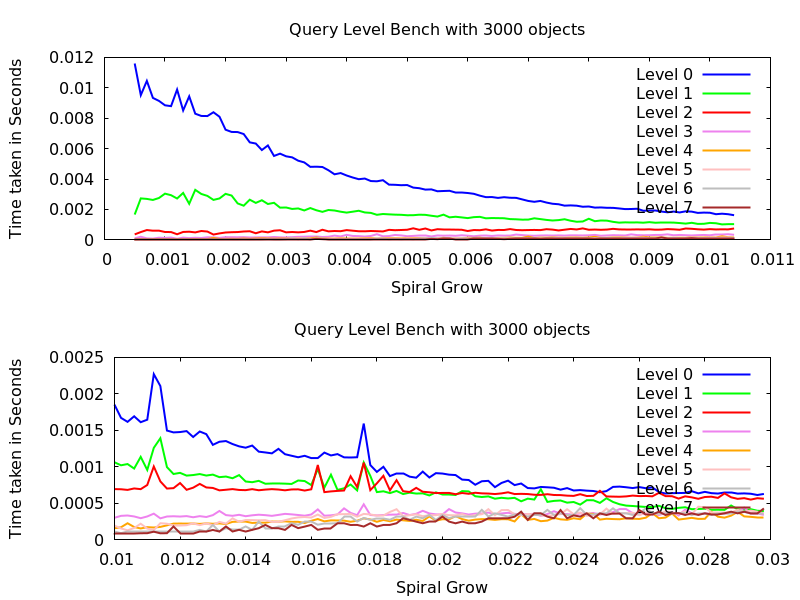
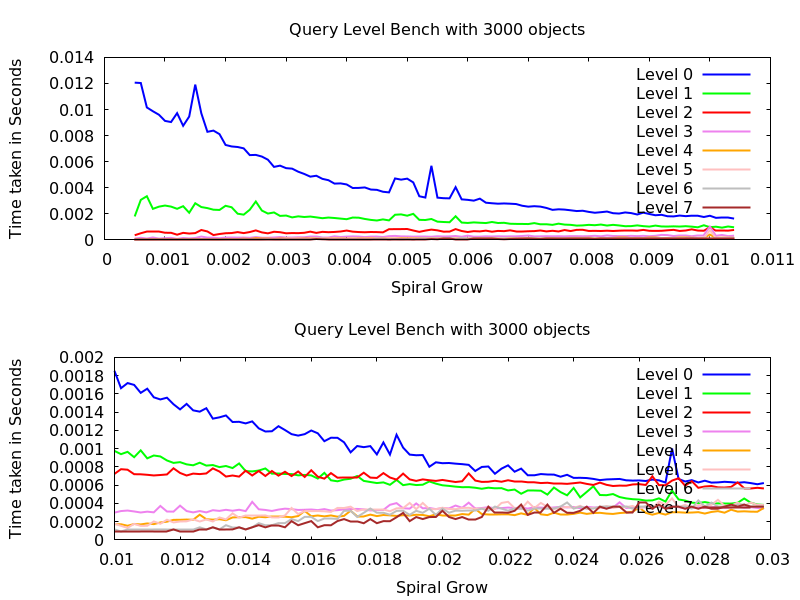
new generated graphs

Changed region(s): [[0.0625, 0.57, 0.9688, 0.9], [0.1562, 0.12, 0.9375, 0.42], [0.0625, 0.09, 0.125, 0.39]]

diff --git a/rebalance_and_query_Report.md b/rebalance_and_query_Report.md
@@ -28,7 +28,7 @@ The below chart shows as influencing the spiral_grow effects the number of bot i
 # Comparison against other Algorithms
 
 
-The below chart compares different different algorithms both in terms of comparisons and benches. 
+The below chart compares different different algorithms both in terms of comparisons and benches. The naive algorithm is clearly the slowest, with sweep and prune next followed by dinotree. What is interesting is that the real world bench times matches closely the theoretical number of comparisons. The lines are more smooth (and deterministic) than the benches since on my laptop has other things to do besides run this program. The jumps that you see in the theortical dinotree line are the points at which the trees height grows by one. It is a complete binary tree so a slight increase in the height by 1 causes a doubling of nodes so it is a drastic change. As the number of bots increases its inevitable that sometimes the tree will be too tall or too short. 
 
 ![chart](./graphs/colfind_theory.png)
 
@@ -47,12 +47,22 @@ Another interesting observation is that these graphs show that sweep and prune h
 
 The below charts show the load balance between the construction and querying on the dinotree.
 
+* The cost of rebalancing does not change with the density of the objects
+* The cost of querying does change with the density.
+* If the bosts are spread out enough, the cost of querying decreases enough to cost less than the cost of rebalancing.
+* The cost of querying is reduced more by parallelizing than the cost of rebalancing.
+
+![chart](./graphs/colfind_rebal_vs_query_theory_spiral.png)
 ![chart](./graphs/colfind_rebal_vs_query_num_bots_grow_of_0.2.png)
 ![chart](./graphs/colfind_rebal_vs_query_num_bots_grow_of_2.png)
-![chart](./graphs/colfind_rebal_vs_query_theory_spiral.png)
 
 
 # Level Comparison
+
+* The cost of rebalancing the first level is the most erratic.
+* The load goes from the top levels to the bottom levels as the bots spread out more.
+* 
+
 ![chart](./graphs/level_analysis_theory_rebal.png)
 ![chart](./graphs/level_analysis_theory_query.png)
 
